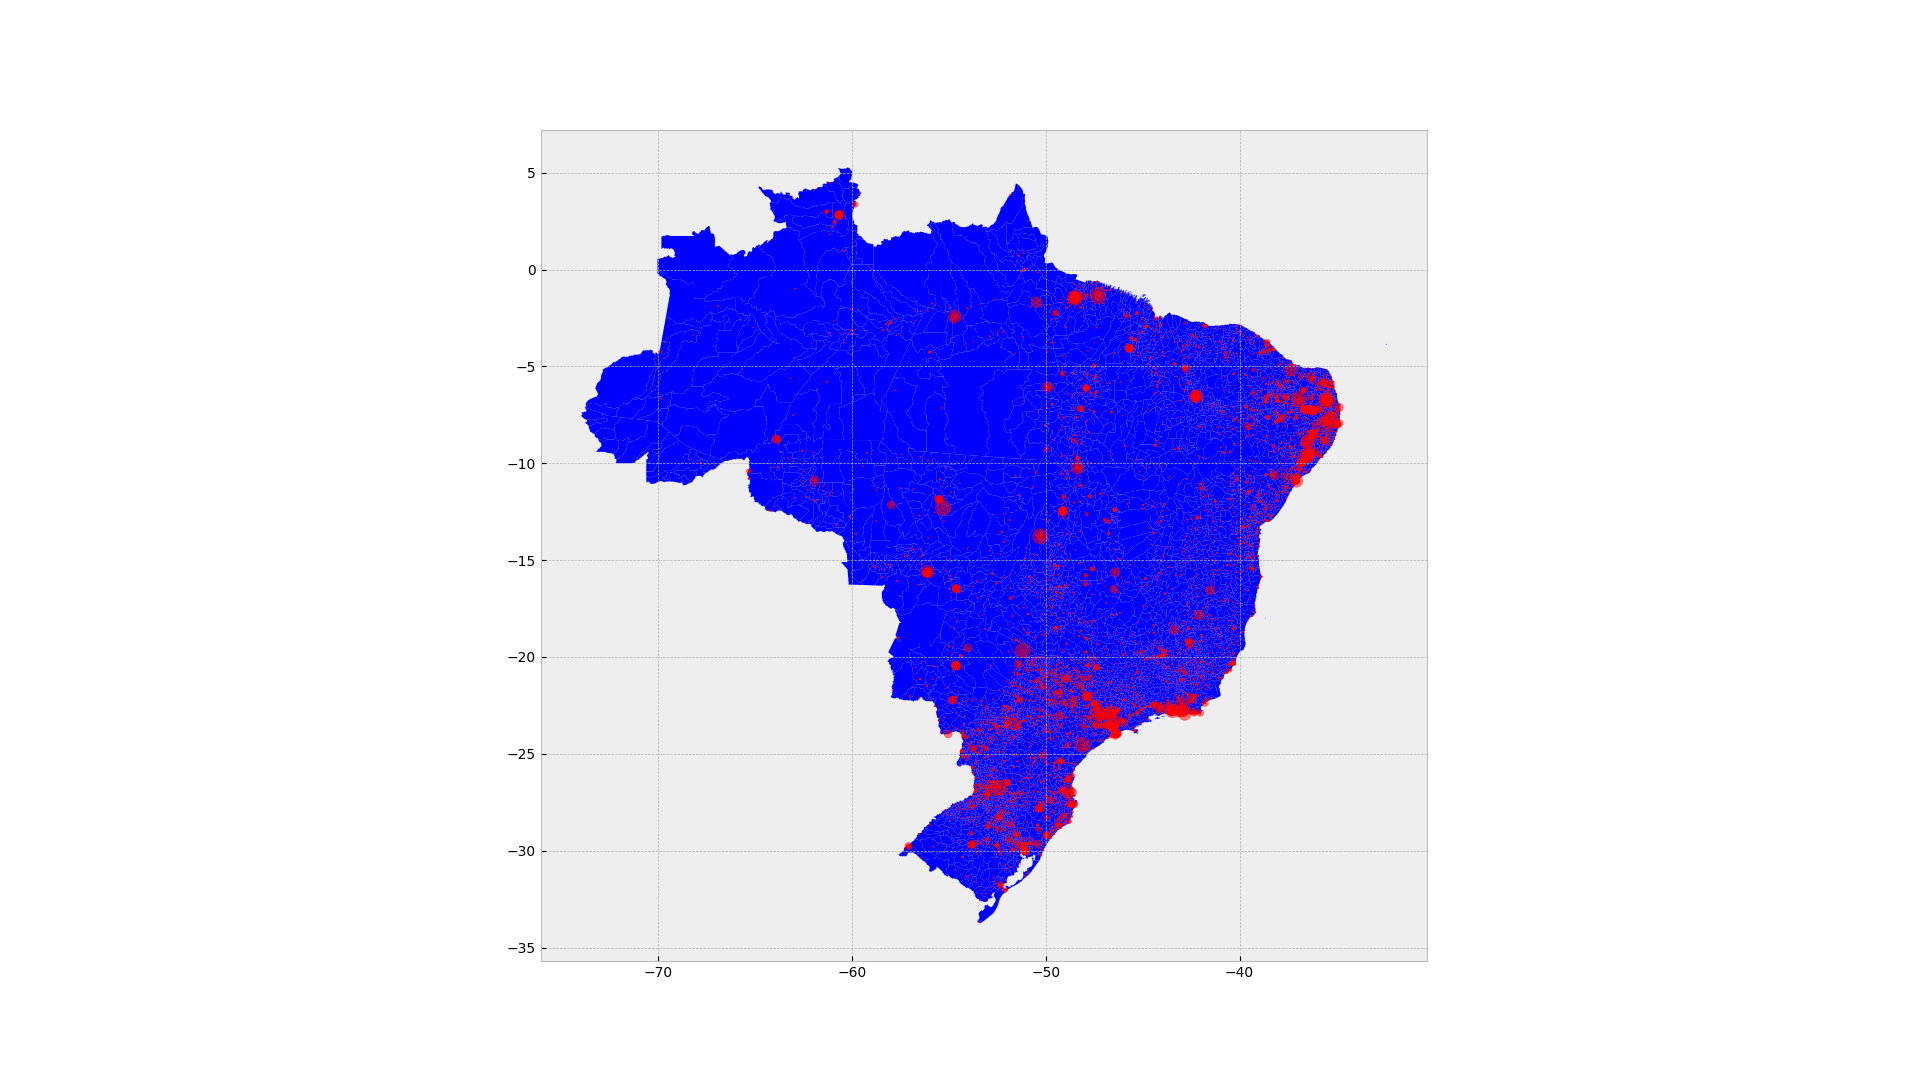
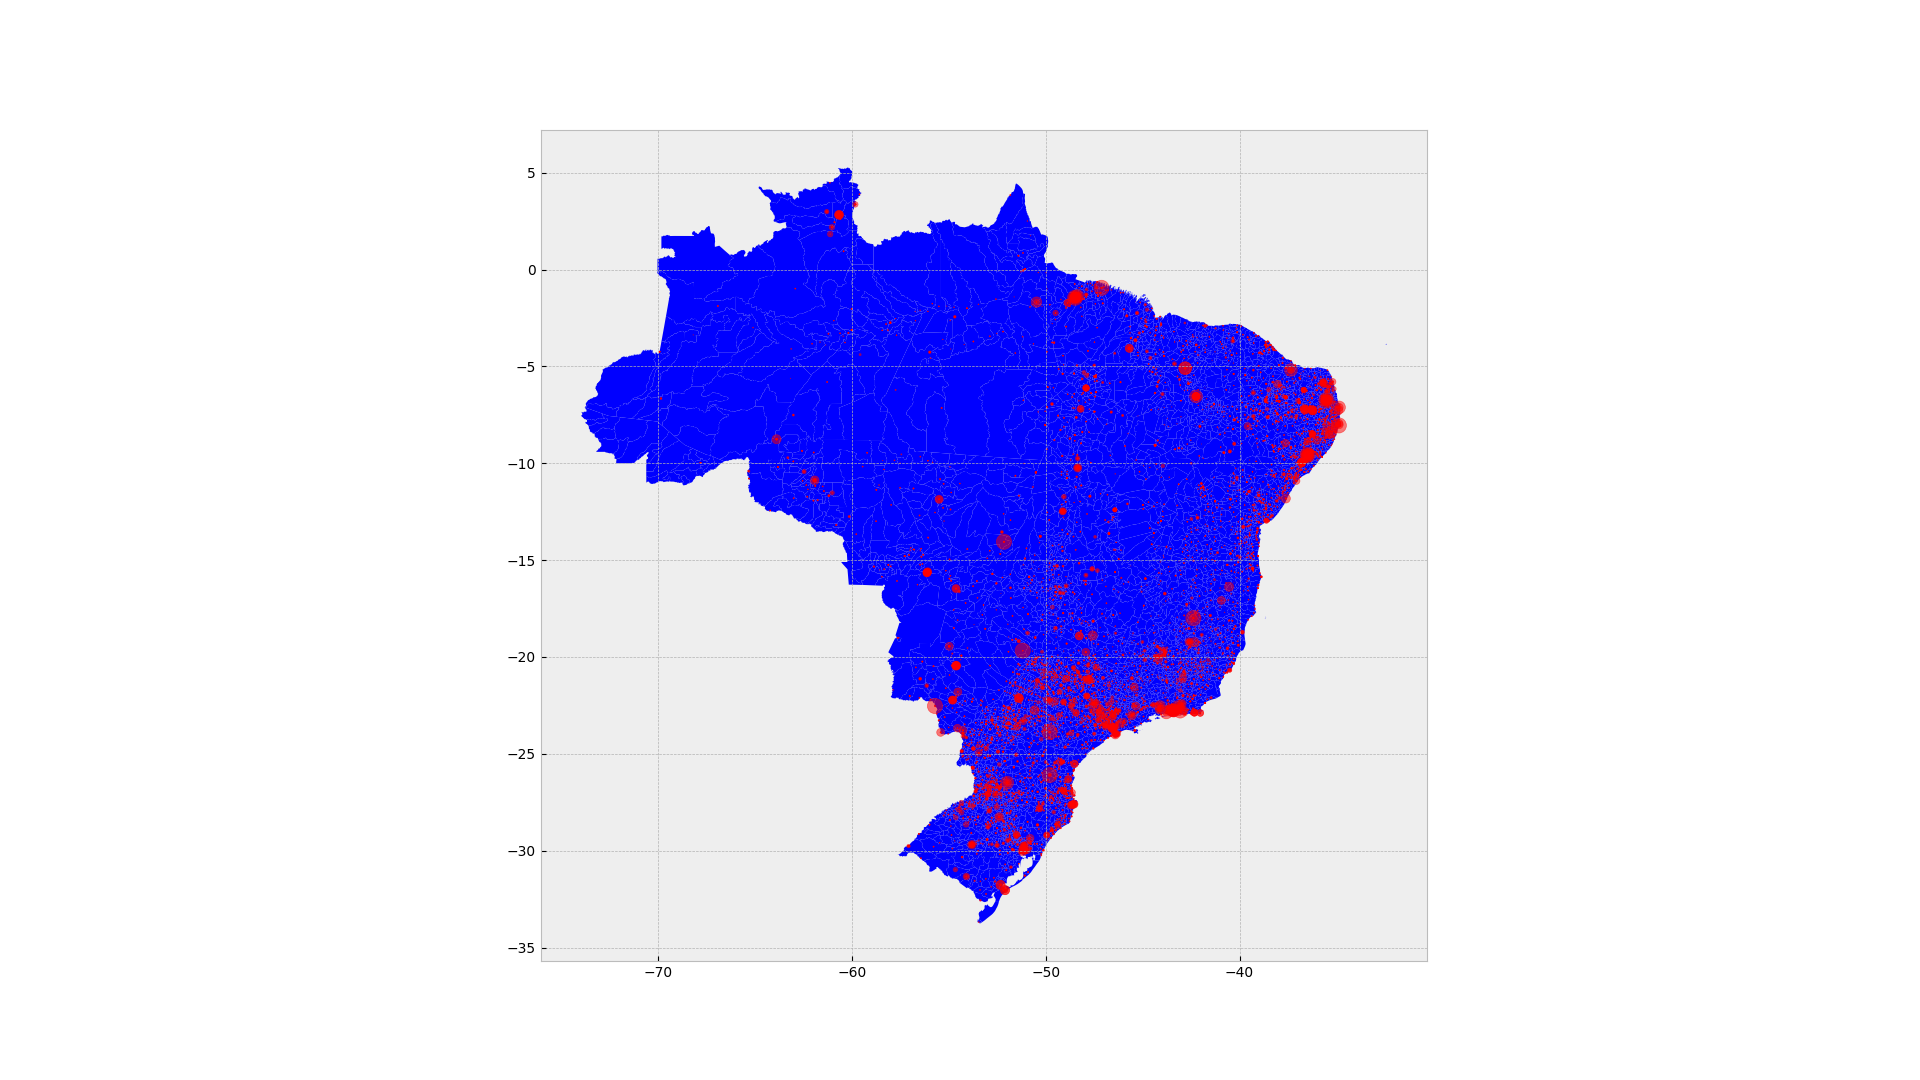
Criação dos CSVs com estado e população; Método de gerar heatmaps em desenvolvimento;

diff --git a/data_sources/dataframes_ocorrencias.py b/data_sources/dataframes_ocorrencias.py
@@ -1,7 +1,7 @@
 from os import getcwd
 
 import geopandas
-from dataframes_população import get_dataframe_ano
+from dataframes_população import getDataframePopState
 import gmplot
 from os.path import join
 import pandas as pd
@@ -45,9 +45,8 @@ files = glob.glob(ocorrencias_dir)
 data_frame_list = {}
 coords = []
 
-df_municipios = pd.read_csv("municipios_br.csv")
 
-def fillDataFramesOcorrencias(file):
+def fillDataframesOcorrencias(file):
     global data_frame_list
 
     f = open(file, 'r', encoding='utf-8')
@@ -72,35 +71,39 @@ def createMap(tupla_crime_uf):
 
 
 def generateHeatMaps(arquivo):
+    """
+    função que plota os gráficos dos crimes entre os anos
+    :param arquivo: Dados de ocorrências
+    :return: void
+    """
     global data_frame_list
     global CRIMES
-    df_pop = get_dataframe_ano(arquivo[-4:])
-    dataframe_ocorrencia = data_frame_list[arquivo]
-    dataframe_ocorrencia_municipio_join = dataframe_ocorrencia.join(df_municipios.set_index('Municipio'),
-                                                                    on='Município')
-    dataframe_ocorrencia_join_populacao = dataframe_ocorrencia_municipio_join.join(df_pop.set_index('Município'),
-                                                                                   on='Município').dropna()
-    dataframe_agrupado = dataframe_ocorrencia_join_populacao.groupby(
-        ['Tipo_Crime', 'Sigla_UF', 'Latitude', 'Longitude', 'População_residente'])[
+    df_pop = getDataframePopState(arquivo[-4:])
+
+    df_ocorrencia = data_frame_list[arquivo]
+
+    df_ocorrencia_populacao = df_ocorrencia.join(df_pop.set_index("UF"), on="Sigla_UF").dropna()
+
+    df_groupby = df_ocorrencia_populacao.groupby(
+        ['Tipo_Crime', 'Sigla_UF', 'populacao'])[
         'PC-Qtde_Ocorrências'].sum().reset_index(name='total')
 
-    for crime in CRIMES:
-        latitudes = dataframe_agrupado[dataframe_agrupado.Tipo_Crime == crime][
-            'Latitude'].astype(float)
-        longitudes = dataframe_agrupado[dataframe_agrupado.Tipo_Crime == crime][
-            'Longitude'].astype(float)
+    # for crime in CRIMES:
+    #     latitudes = dataframe_agrupado[dataframe_agrupado.Tipo_Crime == crime][
+    #         'Latitude'].astype(float)
+    #     longitudes = dataframe_agrupado[dataframe_agrupado.Tipo_Crime == crime][
+    #         'Longitude'].astype(float)
+    #
+    #     proporcao_pop_crimes = (dataframe_agrupado['total'] / dataframe_agrupado['População_residente']) * 1000
+    #
+    #     plt.scatter(y=latitudes, x=longitudes, alpha=0.5, s=proporcao_pop_crimes, c='r', )
+    #
+    #     plt.savefig("graficos_ocorrencias/{}-{}.png".format(crime, arquivo[-4:]))
 
-        proporcao_pop_crimes = (dataframe_agrupado['total'] / dataframe_agrupado['População_residente']) * 1000
 
-        plt.scatter(y=latitudes, x=longitudes, alpha=0.5, s=proporcao_pop_crimes, c='r', )
-
-        plt.savefig("graficos_ocorrencias/{}-{}.png".format(crime, arquivo[-4:]))
-
-
-list(map(fillDataFramesOcorrencias, files))
+list(map(fillDataframesOcorrencias, files))
 
 gdf = geopandas.GeoDataFrame.from_file(municipios_dir)
-
 gdf.plot(figsize=(19.2, 10.8))
 
 list(map(generateHeatMaps, ARQUIVOS))

diff --git a/data_sources/dataframes_população.py b/data_sources/dataframes_população.py
@@ -1,30 +1,29 @@
+import glob
 from os import getcwd
-
-
 import pandas as pd
-# import geopandas as gpd
 from os import getcwd
 from os.path import join
 import numpy as np
 import matplotlib.pyplot as plt
 import matplotlib.patches as mpatches
 
-ANOS = ['2010', '2011', '2012', '2013', '2014']
 dataframes_population = {} # Todos os dataframes
 
 current_dir = getcwd()
 dir = join(current_dir, "dados_populacao/PROJECOES_2013_POPULACAO.xls")
+state_pop_files = join(current_dir, "dados_populacao/*.csv")
 
-def create_dataframes(ano):
-    dir_csv = join(current_dir, 'dados_populacao/populacao_municipio_{}.csv'.format(ano))
-    df = pd.read_csv(dir_csv, encoding='iso-8859-15', sep=';')
+pop_csv = glob.glob(state_pop_files)
+
+def createDataframes(ano):
+    dir_csv = join(current_dir, 'dados_populacao/estados_pop_{}.csv'.format(ano))
+    df = pd.read_csv(dir_csv, encoding='utf-8', sep=',')
     return df
 
-def get_dataframe_ano(ano):
-    dataframe = create_dataframes(ano)
-    return dataframe
+def getDataframePopState(ano):
+    return createDataframes(ano)
 
-########################
+
 def getState(state):
     if len(state) == 2:
         return state
@@ -50,6 +49,15 @@ def getStatePopulation(data_frame):
     return data_frame.iloc[50:70]
 
 
+def plotEstado(estado,cor):
+
+    df = (dic_state_population[estado]["state"])
+    df = df.iloc[0][11:16]
+    patch = mpatches.Patch(color=cor, label=estado)
+    df.plot(color=cor)
+    return patch
+
+
 file = pd.ExcelFile(dir)
 lista = file.sheet_names
 sheets = list(map(getState, lista))
@@ -73,18 +81,21 @@ for i in range(0, len(sheets)):
 
 
 
-# df = (dic_state_population["PE"]["state"])
-# df = df.iloc[0][11:16]
-# blue_patch = mpatches.Patch(color='blue', label='PE')
-# df.plot(color='blue')
+
+# handles = []
 #
-# df2 = (dic_state_population["SP"]["state"])
-# df2 = df2.iloc[0][11:16]
-# red_patch = mpatches.Patch(color='red', label='SP')
-# plt.legend(title='Estados', handles=[red_patch, blue_patch])
-# df2.plot(color='red')
+# handles.append(plotEstado('PE','blue'))
+# handles.append(plotEstado('PB', 'red'))
+# handles.append(plotEstado('BA','pink'))
+# handles.append(plotEstado('AL', 'grey'))
+# handles.append(plotEstado('SE', 'green'))
+# handles.append(plotEstado('PI', 'yellow'))
+# handles.append(plotEstado('MA', 'magenta'))
+# handles.append(plotEstado('CE','lime'))
 #
+# plt.legend(title='Estados', handles=handles)
 #
 # plt.xlabel("ano")
 # plt.ylabel("população")
+# plt.savefig("populacao_ano.png")
 # plt.show()
